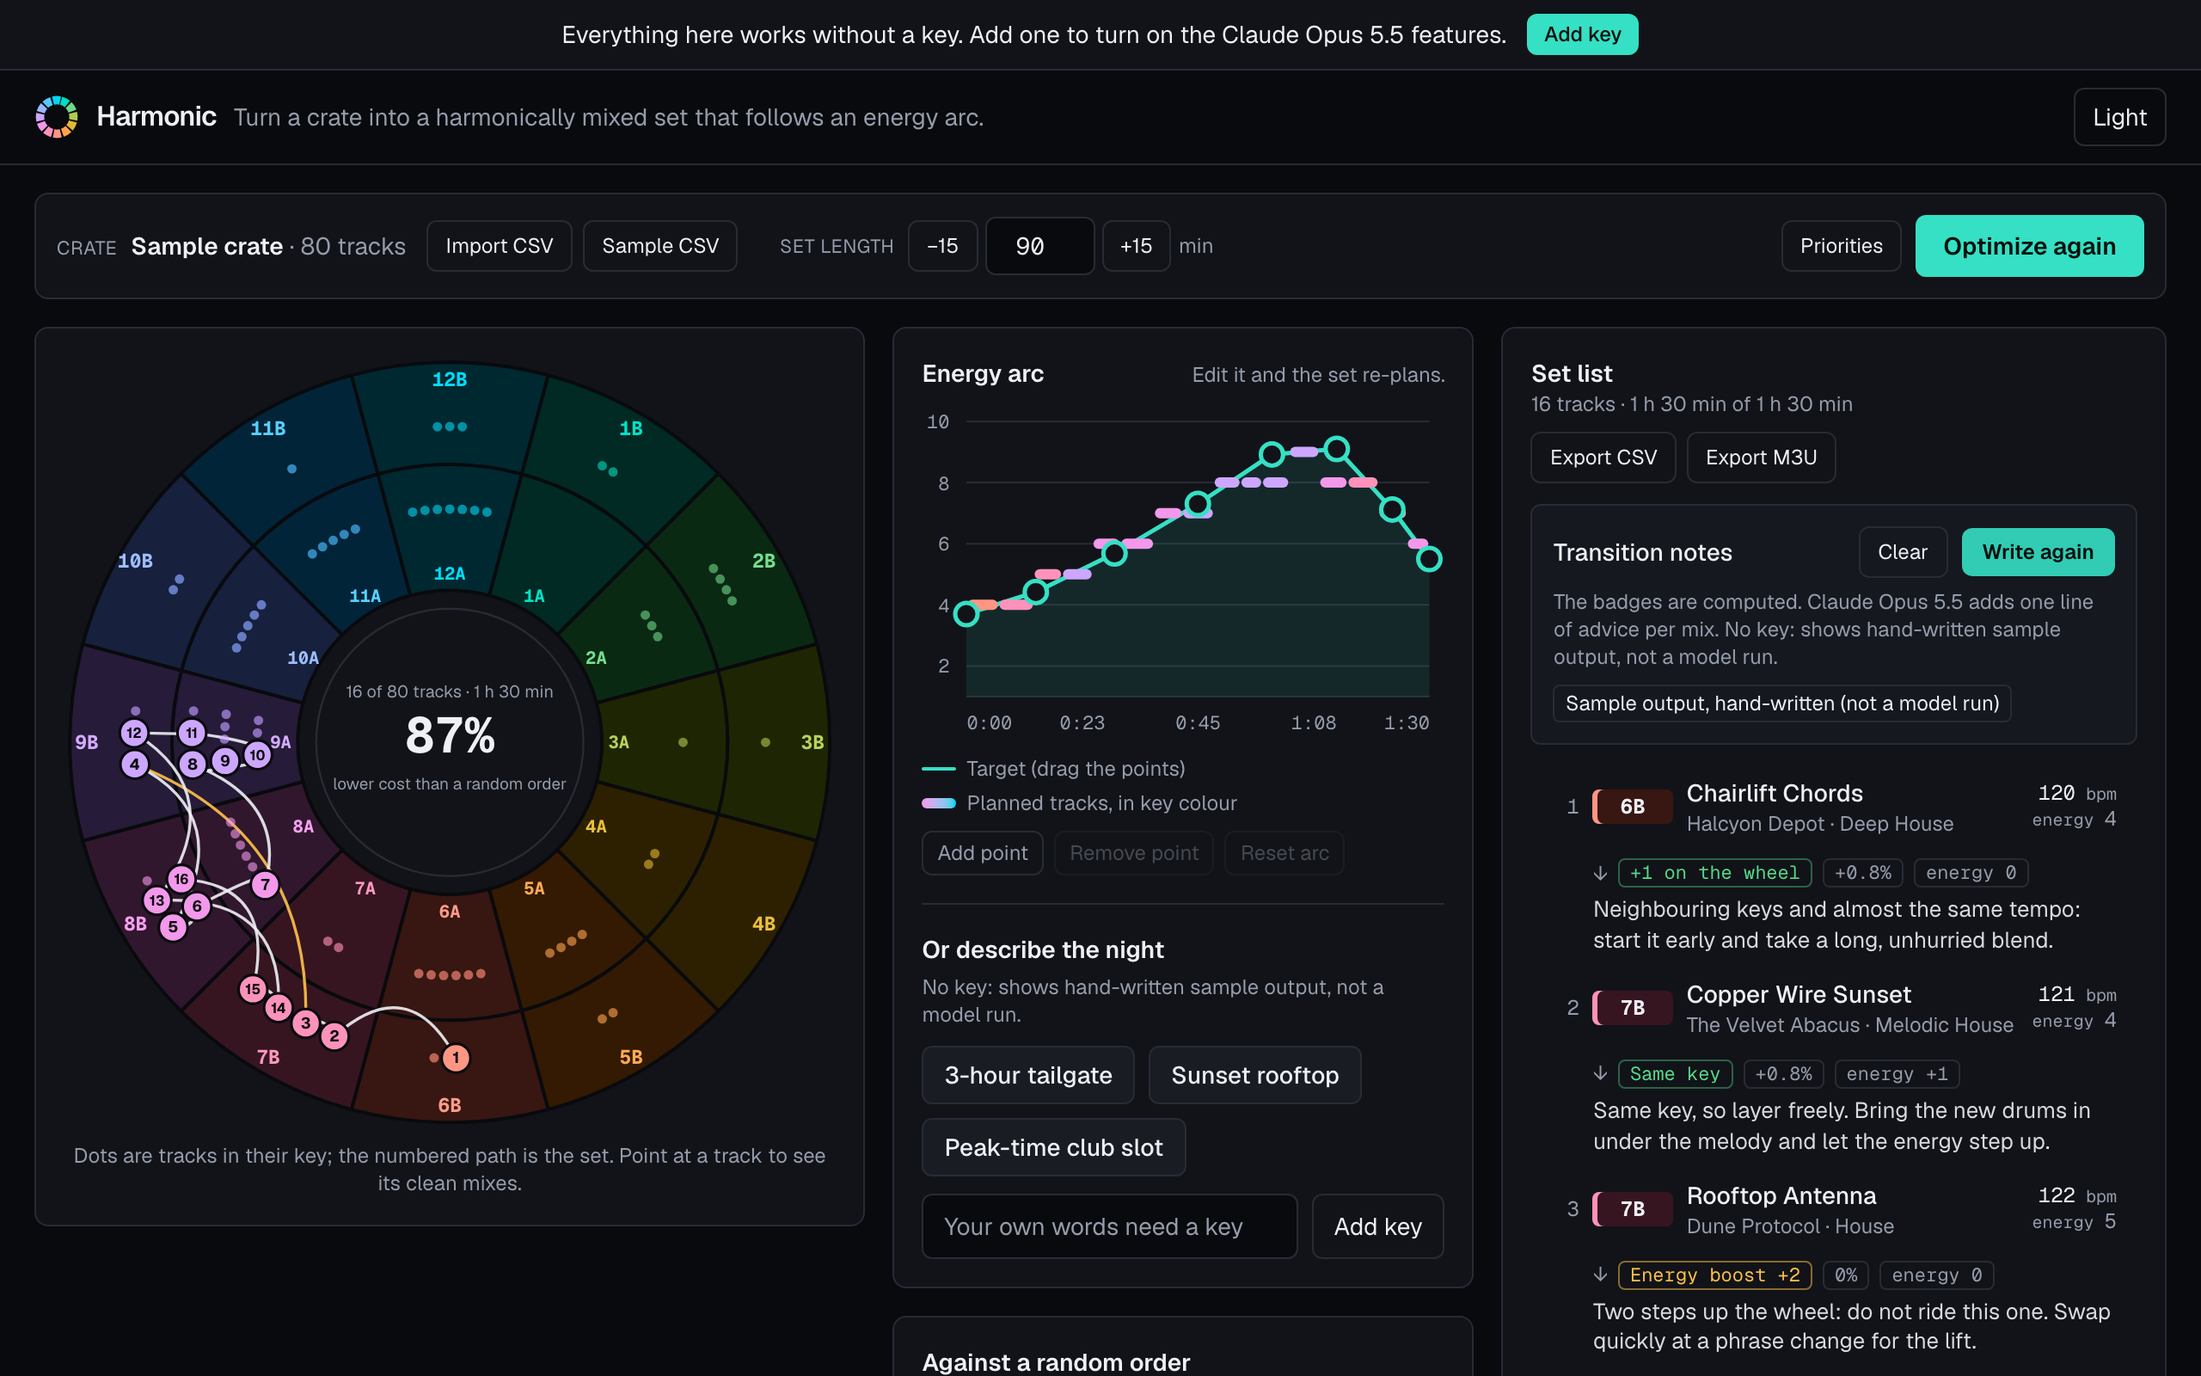
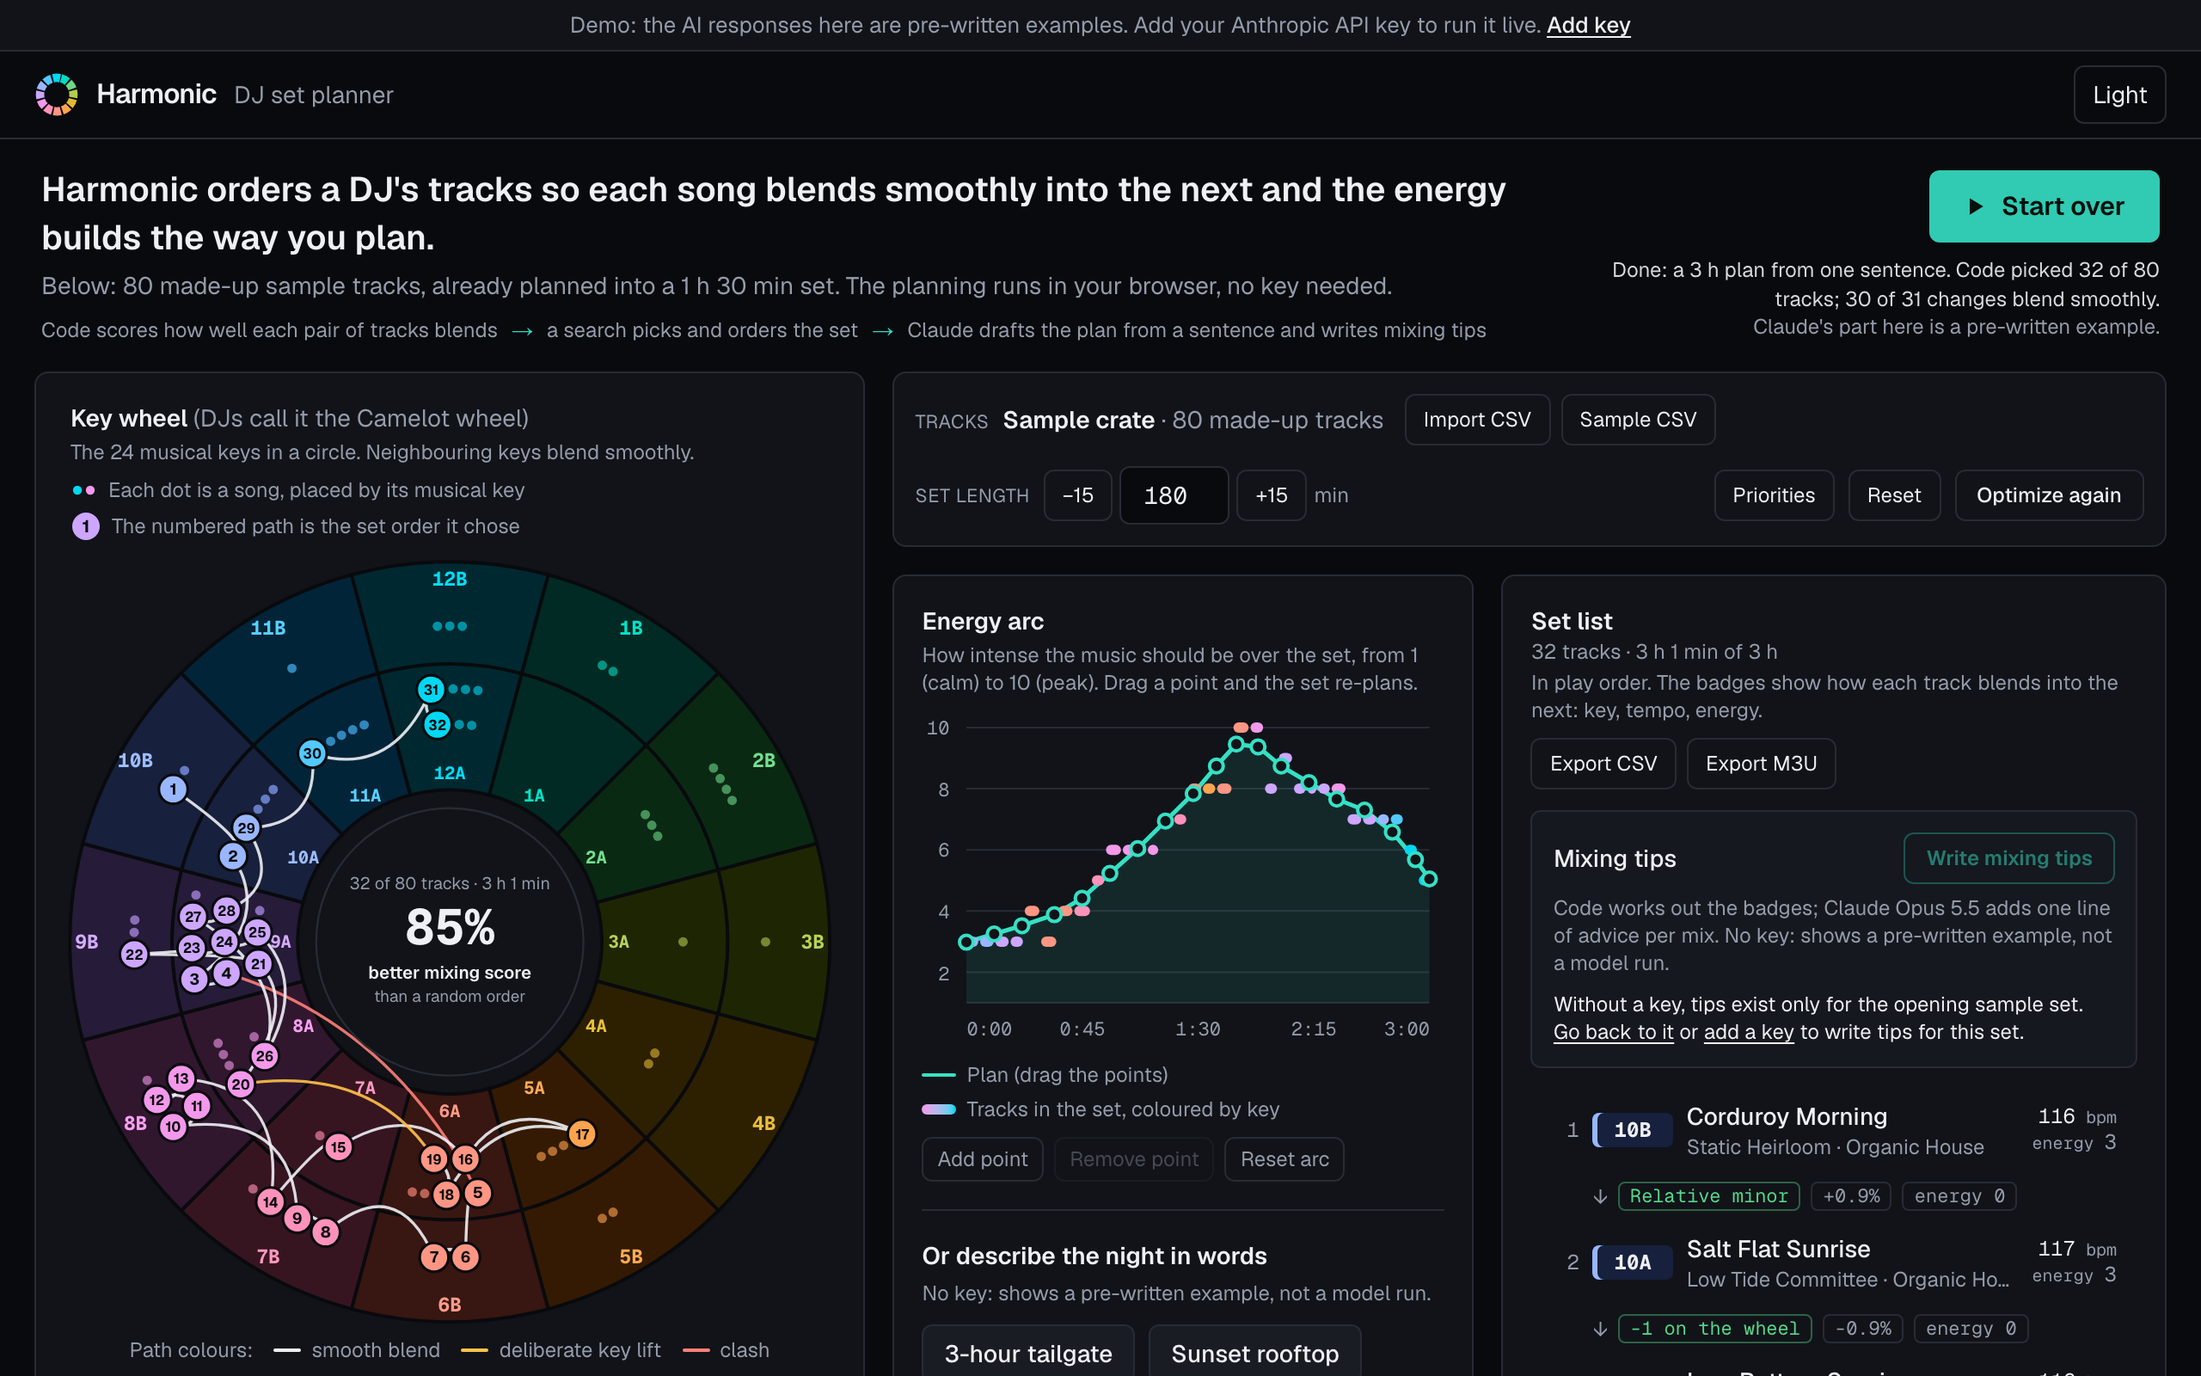
docs: README top for a first-glance reader, retaken screenshots
Title, plain pitch, badges, a captioned hero taken right after the
one-click demo, then "What it does" in four plain bullets and "Try it" with
the GIF and the local run commands. The live-demo badge is the "coming soon"
badge linking to Run locally, and every link to the undeployed vercel.app
URL is gone. Screenshots and the GIF are retaken from the new first screen;
the tailgate and mobile-arc shots are replaced by tips and mobile-demo.

diff --git a/README.md b/README.md
@@ -1,26 +1,42 @@
 # Harmonic
 
-> Turn a crate of tracks into a harmonically mixed DJ set that follows a planned energy arc.
+> Orders a DJ's tracks so each song blends smoothly into the next and the energy builds the way you plan.
 
 [![CI](https://github.com/davezagin-max/harmonic/actions/workflows/ci.yml/badge.svg)](https://github.com/davezagin-max/harmonic/actions/workflows/ci.yml)
 [![License: MIT](https://img.shields.io/badge/license-MIT-blue.svg)](LICENSE)
-[![Live demo](https://img.shields.io/badge/demo-live-brightgreen.svg)](https://harmonic.vercel.app)
+[![Live demo: coming soon](https://img.shields.io/badge/live%20demo-coming%20soon-lightgrey.svg)](#run-locally)
 
-![Harmonic: the Camelot wheel with the planned set drawn as a numbered path, the energy arc, and the set list with transition notes](docs/hero.png)
+![Harmonic after its one-click demo: the key wheel with a 32-track set drawn as a numbered path, the energy arc rising to a peak, and the set list](docs/hero.png)
 
-## Try it in 10 seconds
+_Right after the one-click demo: the sentence "3-hour house tailgate, 45-minute warm-up, peak at 1:45" became the energy arc in the middle (in this demo, Claude's answer is a pre-written example), and the optimizer picked 32 of the 80 sample tracks and ordered them round the key wheel on the left so that 30 of the 31 changes blend smoothly._
 
-**[Open the live demo](https://harmonic.vercel.app)**: no key, no sign-up. It opens with an 80-track sample crate already planned into a 90-minute set. Click **3-hour tailgate** and watch the arc redraw and the set re-plan round the wheel, or drag any point on the energy arc. Point at a track on the wheel to see every clean mix out of it.
+## What it does
 
-The optimizer, the wheel, the CSV import, and the exports need no key at all. The two Claude features (an arc from a description, and transition notes) answer their presets from fixtures in demo mode. Add your own Anthropic key in the app to run them live on your own words and your own set.
+- **Plans a DJ set from a pile of tracks.** Give it a crate (a DJ's track list, exported as a CSV from Rekordbox, Serato, Traktor, or Mixed In Key) and a set length. It picks which tracks to play and in what order.
+- **Makes each change sound smooth.** Tracks in matching musical keys and close tempos blend cleanly into each other. The key wheel (DJs call it the Camelot wheel) shows every track by its key, with the chosen set drawn as a numbered path.
+- **Follows the energy you plan.** Drag a curve for how intense the night should get, from calm to peak, or describe it in one sentence and Claude Opus 5.5 turns it into a curve. The set re-plans to follow it, and Claude can add a one-line mixing tip for each change.
+- **Shows its work.** Code computes every number, including a mixing score (penalty points for clashing keys, tempo jumps, and straying from the plan). On the sample, the planned order scores 87% better than random orders of the same tracks.
 
-Demo data in this commit is hand-written sample output; `pnpm record` replaces it with real Claude Opus 5.5 runs.
+## Try it
 
-![A 10-second tour: two arc presets, pointing at tracks on the wheel, and transition notes](docs/demo.gif)
+The live demo is coming soon. This is the one-click path from the first screen: **Watch it plan a 3-hour set**, point at songs on the wheel, start over, then **Write mixing tips**.
+
+![The one-click demo: a description becomes a 3-hour energy arc, the set re-plans round the wheel, pointing at songs shows what each blends into, and mixing tips appear for the opening set](docs/demo.gif)
+
+To run it yourself (details in [Run locally](#run-locally)):
+
+```bash
+pnpm install
+pnpm dev
+```
+
+Then open http://localhost:3170. No key and no sign-up: it opens with 80 made-up sample tracks already planned into a 90-minute set. The optimizer, the wheel, the CSV import, and the exports all run without a key. The two Claude features (an energy arc from a description, and mixing tips) show pre-written examples for their presets, labelled as such in the app; add your own Anthropic API key in the app to run them live on your own words and your own set.
+
+The AI responses in this commit are hand-written examples, not model runs; `pnpm record` replaces them with real Claude Opus 5.5 runs once a key is available.
 
 ## Why it's interesting
 
-- **One search answers "which tracks" and "in what order".** The search state is a single ordering of the whole crate, and the set is the front of that ordering: tracks are taken in order until the target length is filled. Swapping a track near the front with one further back replaces it in the set, so simulated annealing (swap, insert, reverse moves, then a greedy pass) chooses and sequences at once. On the sample crate the optimized set costs 4.4 against 33.3 for the average of 200 random orders (87% lower, and well under the best random order at 20.1), with 15 of 15 mixes clean where a random order manages about 19%. A run takes about 20 ms on a laptop and happens in a Web Worker.
+- **One search answers "which tracks" and "in what order".** The search state is a single ordering of the whole crate, and the set is the front of that ordering: tracks are taken in order until the target length is filled. Swapping a track near the front with one further back replaces it in the set, so simulated annealing (swap, insert, reverse moves, then a greedy pass) chooses and sequences at once. On the sample crate the optimized set scores 4.4 penalty points against 33.3 for the average of 200 random orders (87% lower, and well under the best random order at 20.1), with 15 of 15 mixes clean where a random order manages about 19%. A run takes about 20 ms on a laptop and happens in a Web Worker.
 - **The same seed gives the same set in every JavaScript engine.** `Math.exp` and `Math.pow` are allowed to round differently between engines, which is enough to send a search down a different path. The annealing schedule and acceptance rule use only plain arithmetic, the random numbers come from a seeded generator, and a test fails if an engine-dependent math call creeps into the search. That is what lets the server plan the opening set at build time, so the first paint is already optimized, and lets the demo transition notes be written for exactly that set.
 - **Code computes the facts; the model only phrases.** For transition notes the browser sends raw tracks, the server recomputes every key relation, tempo change, and energy change with the same tested functions the badges use, and Claude is asked only for one line of advice per mix. Each note is then fact-checked: if it quotes a BPM, a percentage, or a key that is not true for that mix, it is thrown away, asked for again once, and otherwise replaced by a rule-based note that is labelled as such.
 
@@ -61,7 +77,7 @@ flowchart LR
 | Feature                                                                                                                                                                                 | Why                                                                                                                                                                                                                                                                                                                                                                                                             |
 | --------------------------------------------------------------------------------------------------------------------------------------------------------------------------------------- | --------------------------------------------------------------------------------------------------------------------------------------------------------------------------------------------------------------------------------------------------------------------------------------------------------------------------------------------------------------------------------------------------------------- |
 | **Arc from words** (`POST /api/arc`): "3-hour house tailgate, 45-minute warm-up, peak at 1:45" becomes 12 to 24 curve points, a one-line summary, and the set length if one was stated. | Turning a loose description into a shape is judgement, which is what the model is good at. Structured output at `low` effort keeps it fast and cheap. The reply is validated before use: values clamped to range, points sorted and de-duplicated, the curve extended to both ends, and one corrective retry on the same conversation if there is no usable curve. Everything after the curve is deterministic. |
-| **Transition notes** (`POST /api/notes`): one short line of mixing advice per mix.                                                                                                      | Advice is language; the numbers are not. The server recomputes the facts of each mix from the raw tracks and gives them to the model as data. A note that states a figure the facts do not support is rejected, and a follow-up on the same append-only conversation asks again for only those mixes. Anything still missing gets a rule-based note, tagged in the UI.                                          |
+| **Mixing tips** (transition notes, `POST /api/notes`): one short line of mixing advice per mix.                                                                                         | Advice is language; the numbers are not. The server recomputes the facts of each mix from the raw tracks and gives them to the model as data. A note that states a figure the facts do not support is rejected, and a follow-up on the same append-only conversation asks again for only those mixes. Anything still missing gets a rule-based note, tagged in the UI.                                          |
 | **What Claude is not asked to do**: pick tracks, order them, score a mix, or compute any number.                                                                                        | Those have exact answers. They are computed by tested code, run without a key, and are the same every time.                                                                                                                                                                                                                                                                                                     |
 
 Both calls go through one helper (`lib/claude.ts`) that always sends adaptive thinking with an explicit effort level, never forces a tool, reads content by block type, and treats a refusal as a normal result that the UI shows plainly. Text from the visitor (the description, and track and artist names from an imported file) is wrapped in tags and the system prompt says it is data, not instructions. Cancelling a request, or changing the set while notes are being written, aborts the call so no further model calls are made on the visitor's key.
@@ -75,7 +91,7 @@ pnpm install
 pnpm dev
 ```
 
-Open http://localhost:3170. It runs in demo mode until you add a key in the UI.
+Open http://localhost:3170 and click **Watch it plan a 3-hour set**. It runs in demo mode until you add a key in the UI.
 
 To try the importer, click **Sample CSV** to download the sample crate and see the simplest layout it reads. It also reads Rekordbox playlist exports (tab-separated, UTF-16), Serato and Traktor-style CSVs, and Mixed In Key exports; keys can be Camelot (`8A`), Open Key (`1m`), or musical (`Am`, `F#m`, `Bb`).
 
@@ -85,7 +101,7 @@ To try the importer, click **Sample CSV** to download the sample crate and see t
 pnpm check   # lint, typecheck, unit tests, production build
 ```
 
-184 tests, none of which need a key or a network:
+185 tests, none of which need a key or a network:
 
 - **Camelot rules**: every notation for all 24 keys, sharps and flats that name the same pitch, the 12-to-1 wrap, the four compatible moves, and clash costs that rise with distance round the wheel.
 - **Tempo and energy**: the ±6% pitch range, half-time and double-time matches (87 against 174), arc interpolation, and the arc validator.
@@ -95,15 +111,15 @@ pnpm check   # lint, typecheck, unit tests, production build
 - **Fixtures**: every fixture passes the same validators as live output, `fixtures/presets.json` matches what the app sends, and placeholder flags are checked against each fixture's own value, so the suite stays green after real runs are recorded.
 - **Smoke test**: the route handlers in demo mode, from an arc preset through a re-planned set to notes, plus the demo-miss, bad-input, and bad-key paths.
 
-The UI was also walked in headless Chromium at 360, 390, 768, 1024, 1280, and 1440 px (no horizontal scroll before or after interacting), in both themes, and through the live path with every `/api` call intercepted. Screens from that pass:
+The UI was also walked in headless Chromium at 360, 390, 768, 1024, 1280, and 1440 px (no horizontal scroll before or after interacting), in both themes, through the live path with every `/api` call intercepted, and through the one-click demo (each narration step, start over, a refused request, and a visitor taking over mid-demo) at every width. Screens from that pass:
 
-| Point at a track: its clean mixes fan out                                                                                | "3-hour tailgate" preset: 32 tracks, clashes in red                                   |
-| ------------------------------------------------------------------------------------------------------------------------ | ------------------------------------------------------------------------------------- |
-| ![Hovering a track lights the keys it can move to and draws a link to every track it mixes into cleanly](docs/hover.png) | ![A three-hour set planned to an arc that came from a description](docs/tailgate.png) |
+| Point at a track: its clean mixes fan out                                                                                | Mixing tips for the opening set                                                                          |
+| ------------------------------------------------------------------------------------------------------------------------ | -------------------------------------------------------------------------------------------------------- |
+| ![Hovering a track lights the keys it can move to and draws a link to every track it mixes into cleanly](docs/hover.png) | ![The opening 90-minute set with a one-line mixing tip under each change in the set list](docs/tips.png) |
 
-| Light theme                    | Phone, first screen                          | Phone, arc from words                                |
-| ------------------------------ | -------------------------------------------- | ---------------------------------------------------- |
-| ![Light theme](docs/light.png) | ![Phone: toolbar and wheel](docs/mobile.png) | ![Phone: an arc preset applied](docs/mobile-arc.png) |
+| Light theme                    | Phone, first screen                                                     | Phone, after the one-click demo                                                          |
+| ------------------------------ | ----------------------------------------------------------------------- | ---------------------------------------------------------------------------------------- |
+| ![Light theme](docs/light.png) | ![Phone: the intro, the primary button, and the wheel](docs/mobile.png) | ![Phone: the demo's narration and the re-planned set on the wheel](docs/mobile-demo.png) |
 
 CI runs the same checks plus a gitleaks secret scan on every push.
 
